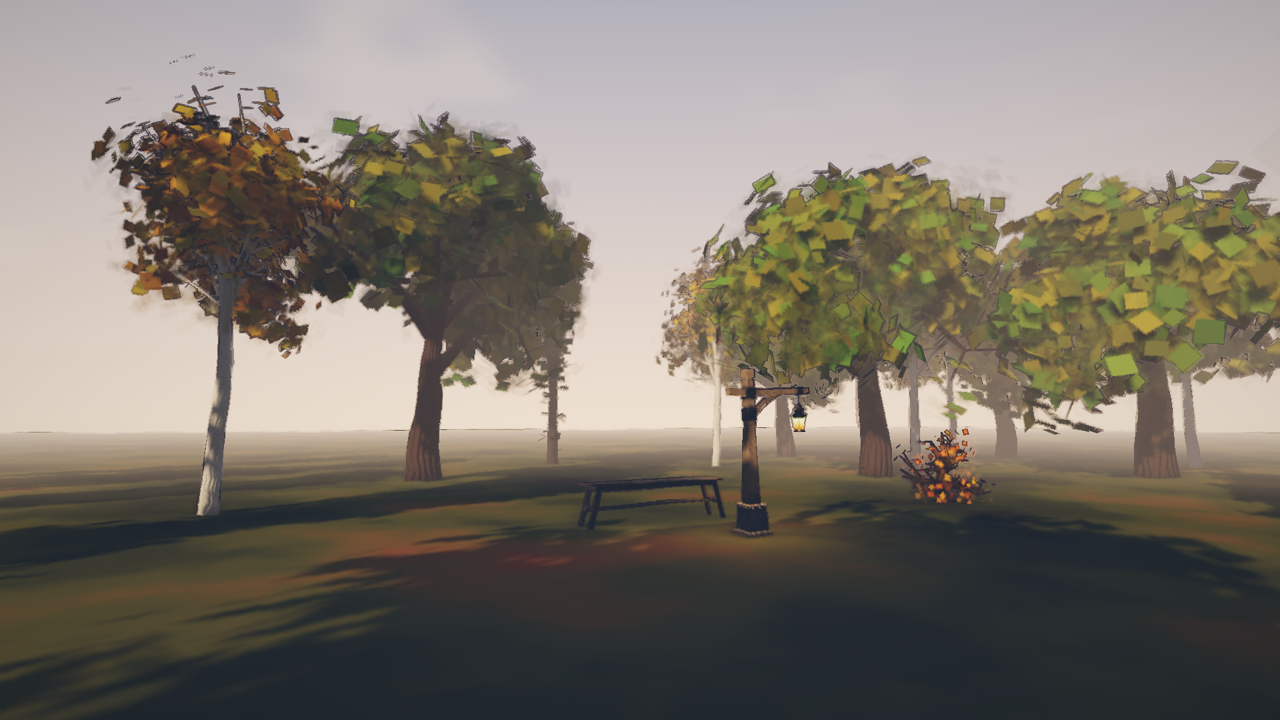
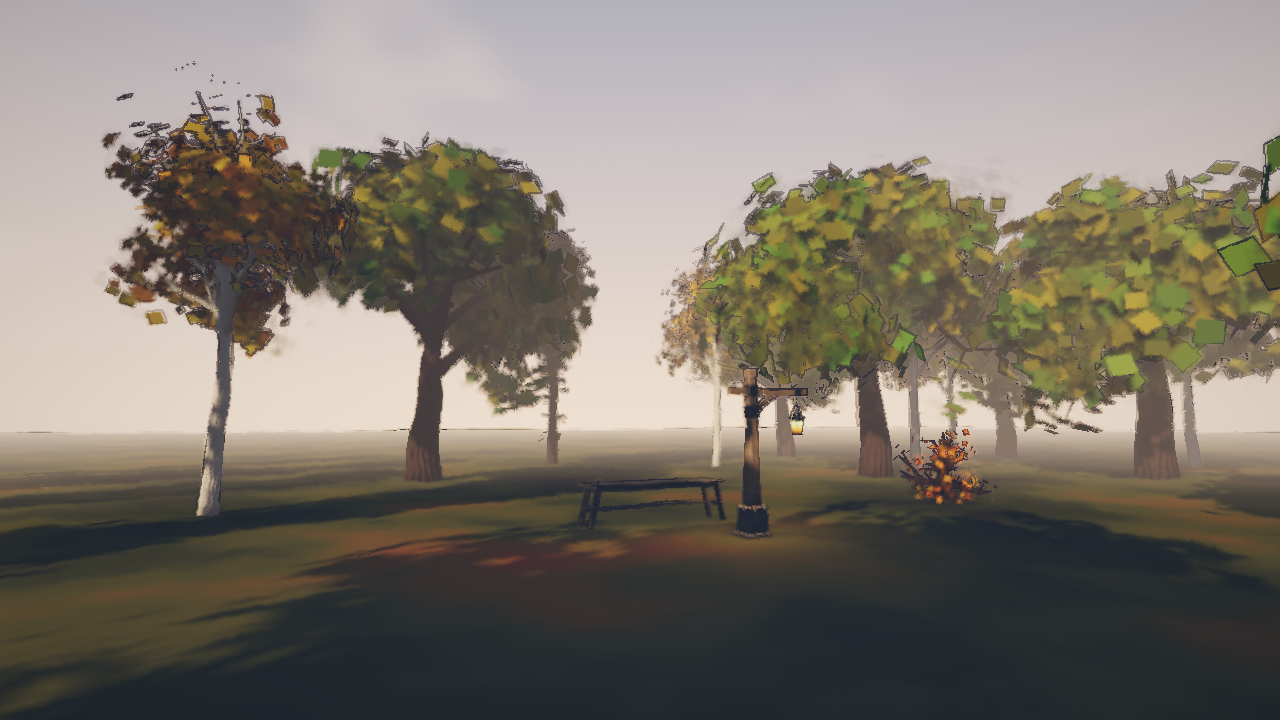
The linklater preset: the sweet spot Woozy Grove found (#219)
amplitude 0.5, step 0.5, glide 0.6, jitter 1, with the grove on boil_on = 1.
Step and amplitude decide the look; glide only matters coming off zero. The
fastest 1% of the picture goes from 15 pixels a frame to 6 at 1080p, and the
half second puts the paint and ink at 12 drawings a second. The book has the
reasoning, the numbers, a frame strip and a slit-scan, and
tools/living-strip/living_strip.py makes both pictures from the scene.

shading_boil pins step = 0.25 and renders byte-identical to before. drowse
gains amplitude = 1 so it stays the morph end of the dial.

Also fixes a wedge in fill_within that soak testing turned up: a pose estimate
that came down to just under the budget had every frame refuse a pose, so it
never came down further and rings ran dry with the budget unspent, at a steady
60 fps. A frame that makes nothing now lowers the estimate too.

Needs Chris's sign-off by eye before merging: the ticket's first box.

Closes #219

diff --git a/tools/living-strip/living_strip.py b/tools/living-strip/living_strip.py
@@ -1,0 +1,131 @@
+#!/usr/bin/env python3
+"""The book's two pictures of a wooze look, made from a scene and nothing else (#219).
+
+Plays the grove twice at a fixed step, once as a look used to be and once as it
+is, and writes:
+
+  <name>-strip.png  A crown at eighth-second moments, one row per look. What it
+                    looks like from moment to moment, which is whether it's still
+                    the same tree.
+  <name>-slit.png   One row of pixels stacked over 4 s, one panel per look, with
+                    time running down. How it moves: a lurch is a jag, a hold is a
+                    straight line and a glide is a curve. It's the nearest thing
+                    to watching that a still picture has.
+
+Same scene, same binary, same bytes: the player steps a fixed 1/60 s.
+
+    python tools/living-strip/living_strip.py --player target/release/flint-player
+
+Needs a GPU and a window, numpy and Pillow.
+"""
+import argparse
+import re
+import shutil
+import subprocess
+import tempfile
+from pathlib import Path
+
+import numpy as np
+from PIL import Image, ImageDraw, ImageFont
+
+STEP = 1 / 60
+START = 3.0  # past the load, with every clock long since running
+SECONDS = 4.0
+WIDTH, HEIGHT = 1280, 720
+CROWN = (747, 0, 1280, 400)  # the near birch and the oak beside it
+SLIT_ROW = 200
+INK = (18, 16, 20)
+PAPER = (232, 224, 208)
+
+# The design's first guess, which the preset was a placeholder for until #219.
+FIRST_GUESS = ("the first guess", {"amplitude": 1.0, "step": 0.25, "glide": 0.3, "jitter": 1.0}, 2)
+
+
+def with_look(scene: str, knobs: dict, boil_on: int) -> str:
+    """The scene with its global knobs written out, which beat its preset."""
+    table = "".join(f"{k} = {v}\n" for k, v in knobs.items())
+    scene, found = re.subn(r"\[wooze\]\npreset = \"[^\"]*\"\n", "[wooze]\n" + table, scene, count=1)
+    assert found == 1, "no [wooze] preset line to replace"
+    scene, found = re.subn(r"(?m)^boil_on = \d+.*$", f"boil_on = {boil_on}", scene, count=1)
+    assert found == 1, "no boil_on line to replace"
+    return scene
+
+
+def capture(player: Path, scene: Path, schemas: Path, frames: Path) -> list:
+    frames.mkdir(parents=True)
+    every = f"{STEP:.10f}"
+    subprocess.run(
+        [str(player), str(scene), "--schemas", str(schemas),
+         "--width", str(WIDTH), "--height", str(HEIGHT), "--frame-step", every,
+         "--screenshot", str(frames / "f.png"), "--screenshot-at", str(START),
+         "--screenshot-every", every, "--exit-after", str(START + SECONDS)],
+        check=True, stdout=subprocess.DEVNULL, stderr=subprocess.DEVNULL,
+    )
+    return sorted(frames.glob("*.png"))
+
+
+def font(size: int):
+    return ImageFont.load_default(size=size)
+
+
+def strip(rows: list, out: Path, cells: int = 6, cell=(300, 225)) -> None:
+    gap, label = 4, 26
+    width = cells * cell[0] + (cells - 1) * gap
+    sheet = Image.new("RGB", (width, len(rows) * (cell[1] + label)), INK)
+    draw = ImageDraw.Draw(sheet)
+    for r, (title, frames) in enumerate(rows):
+        y = r * (cell[1] + label)
+        draw.text((2, y + 5), title, fill=PAPER, font=font(15))
+        for c in range(cells):
+            i = 30 + c * 15  # every 1/8 s
+            crop = Image.open(frames[i]).convert("RGB").crop(CROWN).resize(cell, Image.LANCZOS)
+            x = c * (cell[0] + gap)
+            sheet.paste(crop, (x, y + label))
+            ImageDraw.Draw(sheet).text((x + 6, y + label + 4), f"{i * STEP:.3f} s", fill=PAPER, font=font(12))
+    sheet.save(out)
+
+
+def slit(rows: list, out: Path, row_height: int = 2) -> None:
+    gap, label = 12, 26
+    panels = []
+    for _, frames in rows:
+        lines = [np.asarray(Image.open(f).convert("RGB"))[SLIT_ROW, CROWN[0]:CROWN[2]] for f in frames[:240]]
+        panels.append(Image.fromarray(np.stack(lines)).resize((CROWN[2] - CROWN[0], len(lines) * row_height), Image.NEAREST))
+    w, h = panels[0].size
+    sheet = Image.new("RGB", (len(panels) * w + (len(panels) - 1) * gap, h + label), INK)
+    draw = ImageDraw.Draw(sheet)
+    for i, ((title, _), panel) in enumerate(zip(rows, panels)):
+        x = i * (w + gap)
+        draw.text((x + 2, 5), f"{title}: 4 s, time runs down", fill=PAPER, font=font(15))
+        sheet.paste(panel, (x, label))
+    sheet.save(out)
+
+
+def main() -> None:
+    ap = argparse.ArgumentParser(description=__doc__, formatter_class=argparse.RawDescriptionHelpFormatter)
+    ap.add_argument("--player", type=Path, default=Path("target/release/flint-player"))
+    ap.add_argument("--scene", type=Path, default=Path("demo/woozy_grove.scene.toml"))
+    ap.add_argument("--schemas", type=Path, default=Path("schemas"))
+    ap.add_argument("--out", type=Path, default=Path("docs/book/src/images"))
+    ap.add_argument("--name", default="linklater")
+    args = ap.parse_args()
+
+    text = args.scene.read_text(encoding="utf-8").replace("\r\n", "\n")
+    before = args.scene.with_name("_living_strip_before.scene.toml")
+    title, knobs, boil_on = FIRST_GUESS
+    before.write_text(with_look(text, knobs, boil_on), encoding="utf-8")
+    work = Path(tempfile.mkdtemp(prefix="living-strip-"))
+    try:
+        rows = [
+            (title, capture(args.player, before, args.schemas, work / "before")),
+            (args.name, capture(args.player, args.scene, args.schemas, work / "after")),
+        ]
+        strip(rows, args.out / f"{args.name}-strip.png")
+        slit(rows, args.out / f"{args.name}-slit.png")
+    finally:
+        before.unlink(missing_ok=True)
+        shutil.rmtree(work, ignore_errors=True)
+
+
+if __name__ == "__main__":
+    main()

diff --git a/crates/flint-procgen/src/living_props.rs b/crates/flint-procgen/src/living_props.rs
@@ -1304,6 +1304,12 @@ impl LivingProps {
             let estimate = self.pose_estimate_ms;
             let a_later_frame_fits_it = estimate > 0.0 && estimate <= budget_ms;
             if used + estimate > budget_ms && (made || budget_ms <= 0.0 || a_later_frame_fits_it) {
+                // Only making a pose teaches the estimate anything, so one that came
+                // down to just under the budget would be turned away by every frame
+                // after it, and the rings would run dry with the budget unspent.
+                if !made {
+                    self.pose_estimate_ms *= POSE_ESTIMATE_DECAY;
+                }
                 return made;
             }
             let began = Instant::now();
@@ -2309,6 +2315,38 @@ variance = {{ amount = 0.5, steady = 0.5, keep_size = false }}
     /// want 50 poses a second out of 60, under a stagger that reaches far, a new
     /// variance every frame, and echoes that want poses behind the props. There's
     /// only room if what's being read wins every time.
+    /// A stall on a busy machine leaves the estimate over the budget, and it comes
+    /// down a little with each pose until it's just under. Exactly at the budget,
+    /// no frame can ever fit a pose, since finding that out takes some of the frame.
+    /// The rings ran dry like this at 0.25 ms of a 4 ms budget, for as long as the
+    /// game went on, at a steady 60 fps (#219). It takes a grove's worth of props:
+    /// with a few, stepping their clocks fits inside the timer's resolution, the
+    /// frame reads as having used nothing, and an estimate at the budget still fits.
+    #[test]
+    fn an_estimate_just_under_the_budget_does_not_stop_the_poses() {
+        let mut resolver = resolver_with(&sapling("step = 0.1"));
+        for n in 0..256u64 {
+            let name = format!("oak_{n}");
+            resolver.add_living_prop(request(n + 1, &name)).unwrap();
+        }
+        resolver.make_living_now();
+        resolver.frame_budget_for_test(4.0);
+        let made_before = resolver.living_props().stats().poses_made;
+        resolver.living_props_mut().pose_estimate_ms = 4.0;
+
+        run(&mut resolver, 4.0, 1.0 / 60.0);
+
+        let props = resolver.living_props();
+        assert!(
+            props.stats().poses_made > made_before,
+            "no poses in 4 s: {:?}",
+            props.stats()
+        );
+        for prop in props.props() {
+            assert_eq!(prop.ready(), prop.ring_len(), "{:?}", props.stats());
+        }
+    }
+
     #[test]
     fn a_pose_being_read_beats_every_other_use_of_a_tight_budget() {
         let mut resolver = resolver_with(&sapling(

diff --git a/crates/flint-core/src/wooze.rs b/crates/flint-core/src/wooze.rs
@@ -68,15 +68,20 @@ impl WoozeSample {
     }
 }
 
-/// The built-in presets. `linklater` is a named placeholder, the design's first
-/// guess, until the grove finds the real sweet spot (#219).
+/// The built-in presets.
 pub const PRESETS: &[(&str, WoozeSample)] = &[
+    // The sweet spot (#219), found in Woozy Grove. Half the drift a spec asks for, on
+    // a half second, is what takes a crown from swinging to wandering: the fastest 1%
+    // of the picture goes from 15 pixels a frame to 6 at 1080p. A beat here is 12 film
+    // frames a second, so with `boil_on = 1` the paint and ink redraw 12 times a second,
+    // the rate of animation on twos. Glide matters far less once it's off the floor.
+    // The book's Living Props chapter has the measurements and the strip.
     (
         "linklater",
         WoozeSample {
-            amplitude: 1.0,
-            step: 0.25,
-            glide: 0.3,
+            amplitude: 0.5,
+            step: 0.5,
+            glide: 0.6,
             jitter: 1.0,
         },
     ),
@@ -247,7 +252,7 @@ impl Cycle {
 
 /// Film frames to one beat of the field. Six is what ones, twos and threes all
 /// divide, so a drawing lands on every beat whichever a scene picks, and the
-/// `linklater` preset's quarter-second step is exactly 24 frames a second.
+/// `linklater` preset's half-second step is exactly 12 frames a second.
 pub const FILM_FRAMES_PER_BEAT: u32 = 6;
 
 /// Which drawing the shading boil (#214) is on, and how hard it boils.
@@ -1097,6 +1102,19 @@ mod tests {
         let mut field = field_with(POCKET);
         let reason = field.add_zone(&table(POCKET)).unwrap_err();
         assert!(reason.contains("taken"), "{reason}");
+    }
+
+    /// What the grove's judgement came to (#219). A change here changes the look the
+    /// book's strip shows, so make it on purpose and make the strip again.
+    #[test]
+    fn linklater_is_the_look_the_grove_settled_on() {
+        let look = preset("linklater").unwrap();
+        assert_eq!(
+            (look.amplitude, look.step, look.glide, look.jitter),
+            (0.5, 0.5, 0.6, 1.0)
+        );
+        // On ones, that's a new drawing 12 times a second.
+        assert_eq!(f64::from(FILM_FRAMES_PER_BEAT) / f64::from(look.step), 12.0);
     }
 
     #[test]

diff --git a/crates/flint-scene/src/wooze.rs b/crates/flint-scene/src/wooze.rs
@@ -641,7 +641,7 @@ jitter = 0
 
         let linklater = preset("linklater").unwrap();
         let far = field.sample([100.0, 0.0, 0.0], 0.0);
-        assert_eq!(far.step, linklater.step, "from the preset");
+        assert_eq!(far.amplitude, linklater.amplitude, "from the preset");
         assert_eq!(far.glide, 0.4, "a global key beats its preset");
         assert_eq!(field.sample([0.0, 0.0, 12.0], 0.0).glide, 0.8);
         let hush = field.sample([20.0, 0.0, 0.0], 0.0);

diff --git a/docs/book/src/concepts/procgen.md b/docs/book/src/concepts/procgen.md
@@ -417,7 +417,7 @@ In a scene with a table, the field decides `step` and `glide` for every prop, wh
 
 | Preset | Step | Glide | Amplitude | Jitter | |
 |--------|------|-------|-----------|--------|---|
-| `linklater` | 0.25 | 0.3 | 1 | 1 | A named placeholder, the design's first guess, until the grove finds the real one |
+| `linklater` | 0.5 | 0.6 | 0.5 | 1 | The sweet spot between the two below: the crown wanders, and the leaves and lines keep it drawn. [How it was found](#the-sweet-spot-linklater) |
 | `boil` | 0.125 | 0 | 0.6 | 1.5 | Small, fast and snapping |
 | `morph` | 1 | 1 | 1 | 0 | Slow, and never rests |
 | `calm` | 1.5 | 0.6 | 0.35 | 0.25 | Barely there |
@@ -529,9 +529,9 @@ It's 38 living trees in four species, from `demo/specs/`: an oak, a cypress, a b
 
 | Zone | Where | Field | What it's for |
 |------|-------|-------|---------------|
-| None | The clearing | `preset = "linklater"` | The look the epic is after, which follows the preset as it's tuned |
+| None | The clearing | `preset = "linklater"` | [The look the epic is after](#the-sweet-spot-linklater) |
 | `hush` | Left, among the cypress | step 1.6, glide 0.6, amplitude 0.2, jitter 0.15 | How little movement still reads as alive |
-| `drowse` | Far right, oaks and birch | step 1.1, glide 0.9, jitter 0.4 | The morph end of the dial, which never rests |
+| `drowse` | Far right, oaks and birch | step 1.1, glide 0.9, amplitude 1, jitter 0.4 | The morph end of the dial, which never rests |
 | `shiver` | Near right, thorn and birch | step 0.125, glide 0, amplitude 0.7, jitter 2.2 | The boil end of the dial, which never eases |
 
 `demo/woozy_grove_walk.txt` walks the same route through all of them, for `flint-player --input-script`. With `--frame-step 0.0166667` it's the same walk every time. Don't step coarser than 1/60: the character reads mouse look once per physics step, so a frame of two steps turns it twice as far.
@@ -543,6 +543,71 @@ A few things the grove had to work around, which any scene like it will meet:
 - **The floor is a `texture_v1` spec covering the ground once.** A box's UVs are in metres, so `texture_scale = 1 / width` fits it, which is also the only way to avoid seams while pipeline noise doesn't tile.
 - **A character always starts facing +Z,** so a scene's way in has to be laid out along it.
 - **Lights are `[entities.x.light]` with a `type`,** and a directional light's `direction` points toward the light. No system reads a `directional_light` table, and `flint validate` lets one through, so a scene with only that has the renderer's default light and no warning.
+
+### The sweet spot: `linklater`
+
+The grove exists to find one setting that reads as alive and not jerky. The setting it found:
+
+```toml
+[wooze]
+preset = "linklater"     # amplitude 0.5, step 0.5, glide 0.6, jitter 1
+
+[post_process]
+boil_on = 1              # at that step, a new drawing 12 times a second
+```
+
+The strip shows why. Both rows are the same crown at the same moments. In the first guess (amplitude 1, step 0.25, glide 0.3, on twos) the limbs change place between frames and the outline of the crown keeps breaking. In `linklater` the limbs stay about where they were, and the foliage is what re-decides itself.
+
+![The same crown at eighth-second moments, under the first guess above and linklater below](../images/linklater-strip.png)
+
+A strip can't show motion, and motion is the question. This one comes closer: one row of pixels through that crown, stacked over 4 s with time running down. A lurch is a jag, a hold is a straight line and a glide is a curve.
+
+![Slit-scans of the first guess, a jagged zigzag, and of linklater, long soft curves with a fine grain on them](../images/linklater-slit.png)
+
+The first guess is a zigzag four times a second. `linklater` is long curves carrying a fine stair-step, which is the slow layer gliding and the fast layer snapping, as the design asked for.
+
+**What moved it.** Measured over 4 s at 60 fps from the walker's start, at 960 x 540 and with speeds scaled to 1080p. *Speed* is how far the fastest 1% of the picture moves in a frame, by phase correlation per tile. *Change* is how much the busiest 1% of 24-pixel tiles changes in a frame, out of 255 levels. The first three columns of each row are the field's knobs:
+
+| Look | Amplitude | Step | Glide | Boil on | Speed (px/frame) | Change |
+|------|-----------|------|-------|---------|------------------|--------|
+| The first guess | 1 | 0.25 | 0.3 | twos | 15.0 | 34.2 |
+| **`linklater`** | **0.5** | **0.5** | **0.6** | **ones** | **6.3** | **19.8** |
+| Glide 0, otherwise `linklater` | 0.5 | 0.5 | 0 | ones | 12.2 | 25.4 |
+| Glide 0.3 | 0.5 | 0.5 | 0.3 | ones | 6.3 | 20.9 |
+| Glide 1 | 0.5 | 0.5 | 1 | ones | 6.3 | 19.1 |
+| Less drift | 0.35 | 0.5 | 0.6 | ones | 6.0 | 19.4 |
+| More drift, longer glide | 0.7 | 0.5 | 0.85 | ones | 7.0 | 20.2 |
+| Slower | 0.7 | 1 | 0.6 | ones | 5.7 | 15.9 |
+| `boil` | 0.6 | 0.125 | 0 | twos | 17.2 | 38.5 |
+| `morph` | 1 | 1 | 1 | twos | 4.5 | 13.8 |
+
+The numbers narrow the choice, and don't make it. They put `linklater` between the two ends and away from the lurch. The rows near it measure much alike, and it was chosen over them by looking at the strips and scans, and at what each knob is for:
+
+- **Step and amplitude do most of the work.** At a quarter second a pose has to cover its distance in a few frames, however it eases. The design's first guess spent its effort on glide, but glide only matters coming off the floor: 0 doubles the speed, and from 0.3 up it hardly changes. 0.6 is there for the softer corners in the scan, and it still holds for 0.2 s of each step.
+- **The half second is what the boil wanted anyway.** A beat is six film frames, so 0.5 s is 12 film frames a second and `boil_on = 1` draws on every one, which is animation on twos. On twos at this step the drawings come 6 times a second, which shows up as a throb at 6 Hz.
+- **Amplitude stops at a half** because a tree that wanders needs somewhere to go. 0.35 measures about the same but scans flatter, with less of the slow curve.
+- **Jitter stays at what the specs authored.** Most of the sharp change that's left is the leaf cards' own snap on their 8 Hz clock, and turning the shading boil off barely moves it. Jitter 0.5 takes the change down to 16.9, but this is the layer that makes it feel drawn.
+- **Stagger stays as each species has it,** `per_level` for oak and cypress and `per_branch` for birch and thorn. With none at all, the change goes up to 21.3. Putting the whole grove on one or the other moves it by less than 1%.
+
+**What a preset holds.** A built-in preset holds the clock's four knobs. The rest of the look is what the grove's tables and specs already say: Kuwahara and contour on, `boil_on = 1`, and each species' own `echoes`, `stagger`, `variance` and leaf `jitter` in `demo/specs/grove_*.procgen.toml`. `flint render demo/woozy_grove.scene.toml --time 3.5` reproduces any moment byte for byte. The strip and the scan come from the scene alone:
+
+```bash
+python tools/living-strip/living_strip.py --player target/release/flint-player
+```
+
+Two runs write the same bytes on the same machine and driver.
+
+**What it costs.** 1920 x 1080 on an RTX 5070 laptop. Nothing is culled, so each row costs the same wherever the camera looks: the grove draws its 1.84 M triangles from any spot, 30 trees in the frame or fewer. The 60 is the grove plus 22 more copies, which isn't committed.
+
+| Living props | Run | Display rate | Uncapped | Blending and upload | Frames missing a pose |
+|--------------|-----|--------------|----------|---------------------|-----------------------|
+| 38 | Standing, 30 s | 59.9 to 60.0 fps | 138 to 155 fps | 1.2 to 1.7 ms | 0 |
+| 38 | The scripted walk, 48 s | 60.0 fps | | 1.3 ms | 0 |
+| 38 | Standing, 5 min | 60.0 fps | | 1.3 ms | 0 |
+| 60 | Standing, 30 s | 60.0 fps | 133 to 138 fps | 2.0 to 2.5 ms | 0 |
+| 60 | Standing, 5 min | 60.0 fps | | 2.3 ms | 0 |
+
+Read the last column as well as the frame rate. A prop short of a pose keeps its last bones for that frame and the frame still arrives on time, so a grove can report 60 fps while its trees stutter. That's what happens on a machine with far more work than cores: 48 busy processes on 24 threads leave nearly every frame short of a pose while they run, at 59 fps. With 24 busy processes, none are short.
 
 ## `flint gen`
 

diff --git a/CLAUDE.md b/CLAUDE.md
@@ -174,7 +174,7 @@ flint-player        Standalone player (game loop, physics, audio, animation, scr
 - **Wooze field** (#213) -- `flint_core::wooze::WoozeField::sample(position, time)` returns `{ amplitude, step, glide, jitter }`, the one answer to how woozy a place is. A scene's `[wooze]` table (global knobs, `preset`) and `[[wooze.zone]]` entries (`shape = "sphere" | "box"`, `center`, `radius` / `size`, `falloff`, any knob) become it through `flint_scene::WoozeDef::field`; `flint validate` fails on a bad zone, naming it, through `WoozeDef::check`, and the player warns and goes without it. No table, no field, nothing samples. In a scene with a field it decides `step` and `glide` for every prop, whatever the spec says. Rhai: `set_wooze(map[, seconds])`, `set_wooze_zone(name, map[, seconds])`, `remove_wooze_zone(name[, seconds])`; ramps are what make the field a function of time. A consumer must not pop on a change: count the clock in beats advanced by `dt / step`, and read glide and amplitude through a `flint_core::wooze::Cycle`, which holds what a part started its cycle with until the cycle ends. `amplitude` is applied per part with `SegmentPose::pulled`; `jitter` scales card turns, and goes into tints before they're quantized so materials stay few. Presets: `flint_core::wooze::PRESETS`, `linklater` a placeholder until #219. Schema: `schemas/components/wooze.toml`, which isn't a component. Bench: `demo/wooze_field.scene.toml`. Book: concepts/procgen.md
 - **Living Props knobs** (#218) -- the F3 **Living Props** panel (`flint-debug-ui/src/living_props_panel.rs`, in any scene with a `living_prop`) and Rhai's `tune_living(map)`, `freeze_living(bool)`, `step_living()`, `save_living_preset(name)`, `load_living_preset(name)` share one path, `player_app/living_tuning.rs`: a change is a `flint_scene::WoozePreset` whose unset fields leave a knob alone, so a preset file loads exactly what a person turned. A ring keeps each pose twice (`RingPose`: `full` as it grew, `held` at the lineage's variance) and the cache only the first, so `LivingProps::set_variance` re-holds with no regrowing and reaches cached poses: poses in use across the grove first, then the rest taking turns with filling. While a knob moves, filling goes to the pose needed soonest (`pose_needed_soonest`), ahead of re-holds and of back-poses for waiting clocks; at rest rings fill as they always did, which keeps frames byte-identical. `set_echoes` / `set_stagger` reshape the ring to cover old and new clocks, and hold the new ones as `PendingClocks` until `ring.holds` what they read, so `frames_starved` counts only what's in use (`in_use_start`, not `ring.first`). Hidden echoes keep their buffers (`set_entity_echo_count`, opacity 0). A preset file is `wooze/<name>.wooze.toml` beside the scene or one level up; `load_scene` fills it into the scene's tables (`flint_scene::apply_preset_file`), so everything downstream only sees knobs, and the scene's own values win except for `[boil]` and stagger over a component's. Freeze is `living_dt` 0; a step is `LivingProps::advance_beats` before the tick, a whole beat per prop whatever its step. `demo/living_sweep.scene.toml` moves every knob: its `--exit-after` lines should say 0 frames missing a pose and 0 kept their last bones. Book: guides/debug-panels.md, concepts/procgen.md
 - **Shallow wooze** (#215) -- a `shallow_wooze` component (`amplitude` metres, `wavelength` metres; schema in `schemas/components/`) on an entity with a mesh, or above several, in a scene with a `[wooze]` table: each vertex moves through world-space vector noise on the field's clock, in the main and shadow passes alike. `flint_core::wooze::ShallowClock` counts beats as a prop does, with no phase offset, so meshes in one place share one continuous displacement. `player_app/shallow_wooze.rs` gives each group one clock (the topmost component's), and `SceneRenderer::set_shallow_wooze` takes this frame's `ShallowWoozeDraw`s. Pay-nothing is the point, so don't add to `shader.wgsl` or `shadow_shader.wgsl` for this: woozy draws have their own vertex stages (`wooze_vertex.wgsl`, `wooze_shadow_shader.wgsl`, both prefixed with `wooze_noise.wgsl`) over the existing fragment stages, in `WoozePipelineSet`s and `ShadowPass::wooze`, built on the first woozy draw. The drift rides in padding: the last 48 bytes of a transform arena slot (every arena bind group now binds the whole 256-byte slot) and of a shadow draw slot. A plain `flint render` and the wireframe view show the rest pose; `--time` and `--sweep` draw it (`WoozeClocks`). 268 woozy entities cost about 0.6 ms a frame. A test mirrors the noise in Rust, so change both together. Bench: `demo/shallow_wooze.scene.toml`. Book: concepts/procgen.md
-- **Woozy Grove** (#217) -- `demo/woozy_grove.scene.toml`, the walkable place the look gets judged: 38 living trees from `demo/specs/grove_{oak,cypress,birch,thorn}.procgen.toml` (L-system, no `[[lod]]`), a bench and lantern on one `shallow_wooze`, zones `hush` / `drowse` / `shiver` around a clearing that takes `preset = "linklater"`. `demo/woozy_grove_walk.txt` is a route through them for `--input-script`. `crates/flint-cli/tests/woozy_grove_cli.rs` keeps it loading. Book: concepts/procgen.md
+- **Woozy Grove** (#217) -- `demo/woozy_grove.scene.toml`, the walkable place the look gets judged: 38 living trees from `demo/specs/grove_{oak,cypress,birch,thorn}.procgen.toml` (L-system, no `[[lod]]`), a bench and lantern on one `shallow_wooze`, zones `hush` / `drowse` / `shiver` around a clearing that takes `preset = "linklater"` (#219: amplitude 0.5, step 0.5, glide 0.6, jitter 1, with the scene's `boil_on = 1`; a built-in holds only the field's knobs, so a scene with that preset and the default `boil_on = 2` boils at half the rate). `tools/living-strip/living_strip.py` makes the book's before/after strip and slit-scan from the scene: a slit-scan (one row of pixels stacked over time) shows a lurch, hold or glide in a still, which frame diffs and contact sheets don't. Judge a look's cost by the `[living]` lines, not fps: a grove that has run out of poses still reports 60 fps, each starved prop simply keeping its last bones. Check them on a long run and under CPU load too; a 30 s idle run once showed 0 where a loaded one showed 3,016 of 3,560 frames short, because `fill_within` refused every pose while its estimate sat just under the budget. `demo/woozy_grove_walk.txt` is a route through them for `--input-script`. `crates/flint-cli/tests/woozy_grove_cli.rs` keeps it loading. Book: concepts/procgen.md
 - **Shading boil and contour** (#214) -- `contour_enabled` runs a screen-space ink pass after Kuwahara (`crates/flint-render/src/contour.rs`, `contour_shader.wgsl`): depth as the second difference of 1 / distance, so flat ground draws no lines, plus luminance, one full-screen draw, resources only once enabled (`ensure_contour_resources`). It draws in any scene. Boil is opt-in twice: `kuwahara_boil` / `contour_boil` above 0, and a `[wooze]` table. `flint_core::wooze::BoilClock` counts the field's beats, with six film frames to a beat so that `boil_on` 1, 2 and 3 all land on it, on game time. Whoever owns the clock stamps `SceneRenderer::set_boil(BoilFrame)` each frame (player, viewer, `flint render --boil-time`); the field is sampled at the camera, and `jitter` alone is the strength. A boil of 0 skips the noise entirely, which is what keeps it byte-identical. Bench: `demo/shading_boil.scene.toml`, where nothing else moves, so `--frame-step 1/24` frames come in byte-identical pairs on twos. Book: concepts/post-processing.md
 - **Scene transitions** -- `TransitionPhase` lifecycle with script-driven visuals; `PersistentStore` survives transitions; `GameStateMachine` pushdown automaton with per-system `SystemPolicy`
 - **Input system** -- TOML-based `InputConfig` with layered loading (built-in -> game -> user overrides -> CLI); keyboard/mouse/gamepad/touch unified via `Binding` enum

diff --git a/docs/book/src/concepts/post-processing.md b/docs/book/src/concepts/post-processing.md
@@ -253,14 +253,14 @@ kuwahara_enabled = true
 kuwahara_boil = 0.5
 contour_enabled = true
 contour_boil = 1.0
-boil_on = 2
+boil_on = 1
 ```
 
 | Field | Type | Default | Description |
 |-------|------|---------|-------------|
 | `boil_on` | u32 | `2` | Film frames each drawing is held: 1, 2 or 3 |
 
-A beat of the field's `step` is six film frames, which ones, twos and threes all divide, so a drawing always lands on the beat. The `linklater` preset's quarter second is therefore 24 frames a second, and on twos a drawing lasts 1/12 s. The clock runs on game time, not frames, so a drawing lasts as long at 30 fps as at 144, and it stops when animation does. A change of `step` bends it from where it stands.
+A beat of the field's `step` is six film frames, which ones, twos and threes all divide, so a drawing always lands on the beat. The `linklater` preset's half second is therefore 12 frames a second, and on ones a drawing lasts 1/12 s. Leave `boil_on` at its default with that preset and a drawing lasts 1/6 s, which reads as a throb. `demo/shading_boil.scene.toml` gets the same 1/12 s from a quarter-second step on twos. The clock runs on game time, not frames, so a drawing lasts as long at 30 fps as at 144, and it stops when animation does. A change of `step` bends it from where it stands.
 
 The field's `jitter` sets how hard it boils: both `_boil` values are multiplied by it, so a preset or zone with `jitter = 0` holds still, and `amplitude` has no say, so a zone can hold its trees still and go on boiling their lines. The field is sampled once a frame where the camera is, since the passes are full-screen. A zone boils when you're in it, and not when you're looking at it from outside.
 
